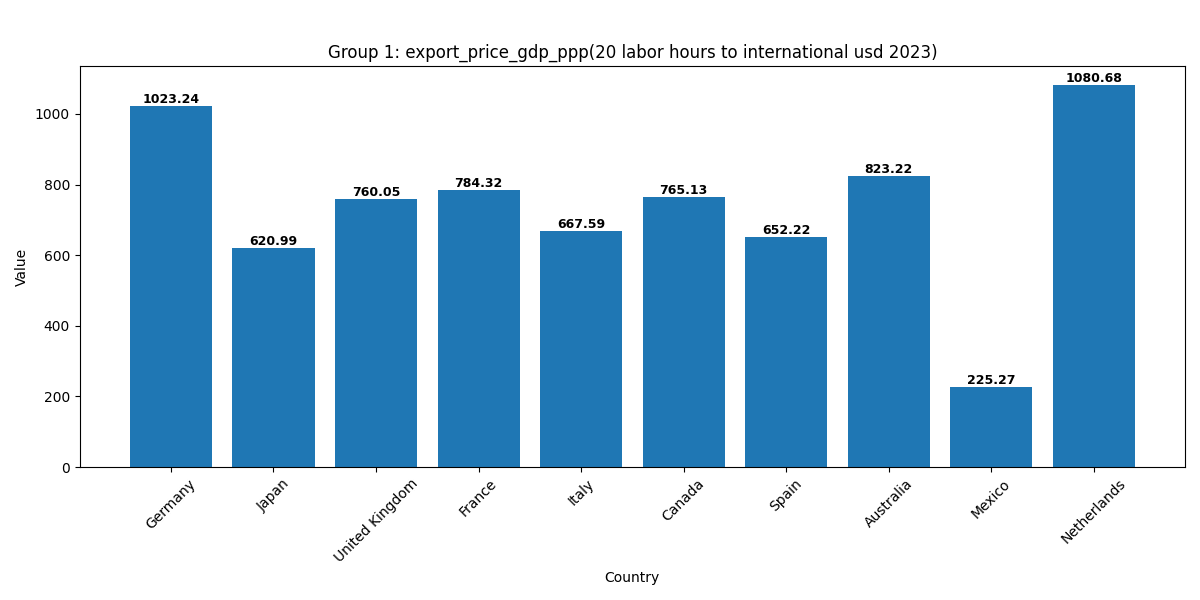
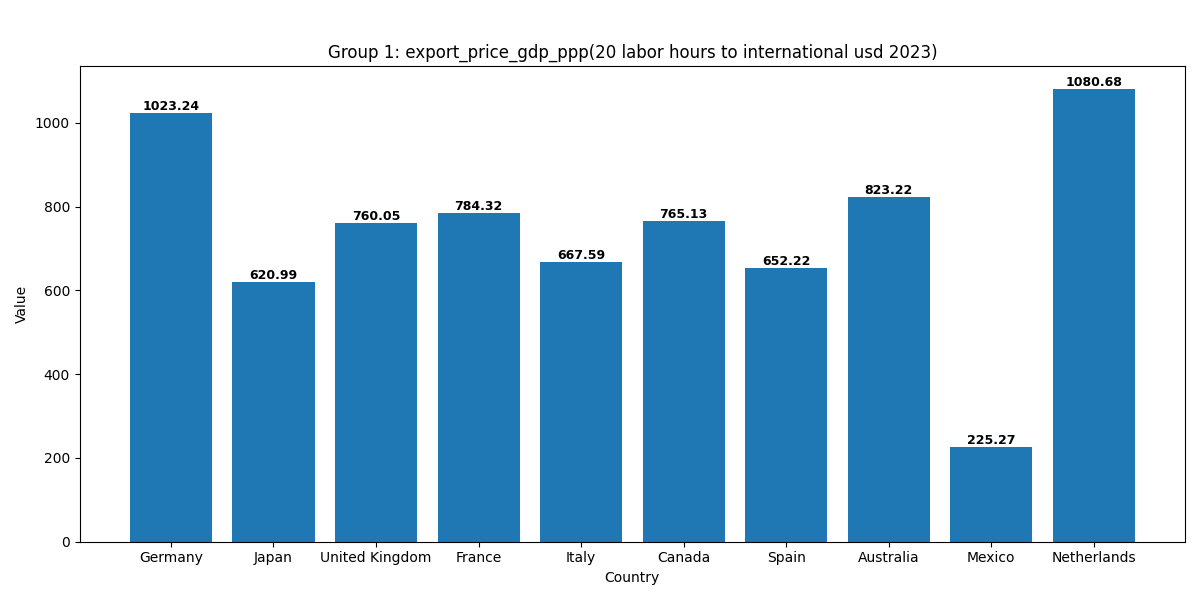
Updated graph.

diff --git a/MELT Conversion Models/scripts/graph.py b/MELT Conversion Models/scripts/graph.py
@@ -50,7 +50,7 @@ for idx, column in enumerate(columns_to_plot, start=1):
         ax.set_xlabel("Country")
         ax.set_ylabel("Value")
         ax.set_title(f"Group {i + 1}: {column}")
-        ax.tick_params(axis='x', rotation=45)
+        ax.tick_params(axis='x', rotation=0)
         fig.tight_layout(rect=[0, 0, 1, 0.95])  # Leave space at top for text
 
         plt.savefig(f"../graphs/Group {i + 1}: {column}.png")
